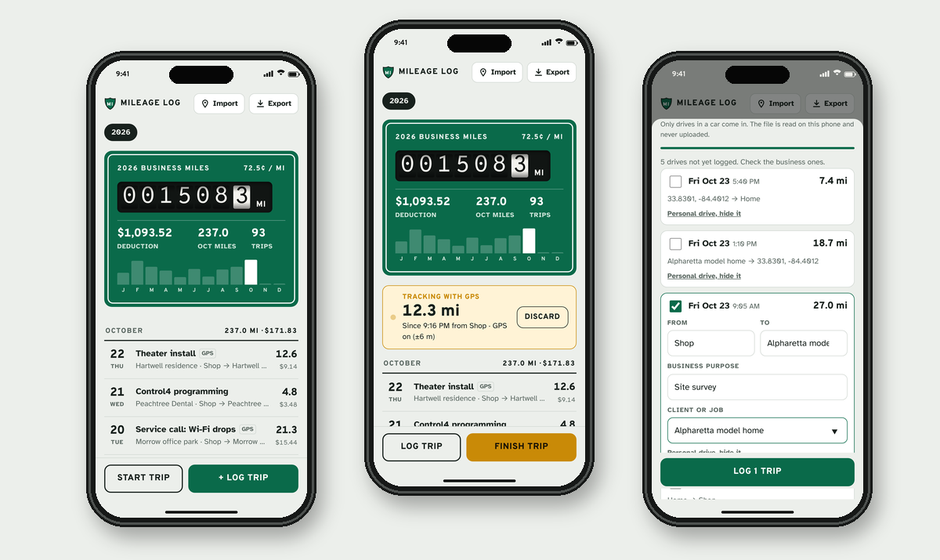
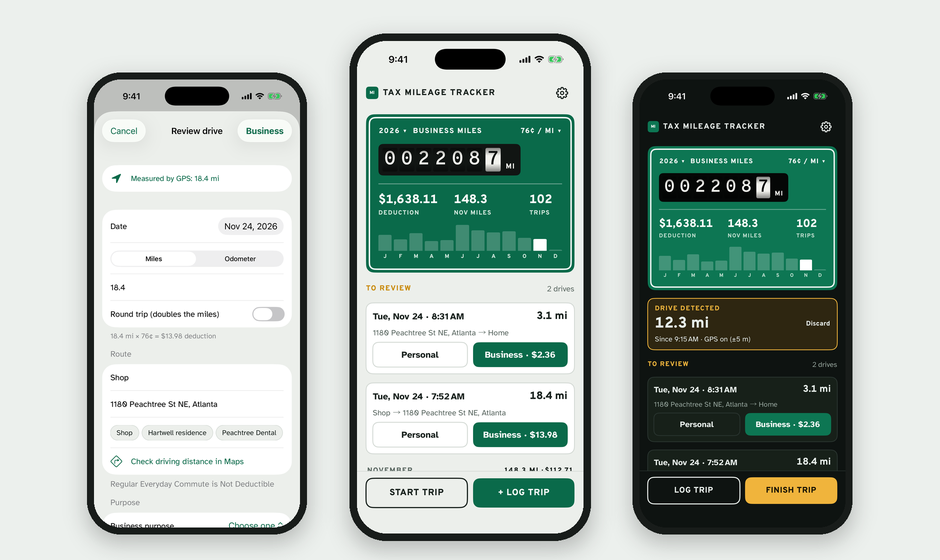
Projects page: current Tax Mileage Tracker screens
Claude-Session: https://claude.ai/code/session_01NV7369TV3DByZaPkANa13k

diff --git a/index.html b/index.html
@@ -54,7 +54,7 @@ try {
       <!-- Tax Mileage Tracker -->
       <li class="card">
         <figure class="card-visual">
-          <img src="assets/mileage-log.png" alt="Three iPhone screens of Tax Mileage Tracker: the year's business miles on a highway-sign odometer, a trip being tracked live with GPS, and drives imported from Google Maps Timeline." loading="lazy">
+          <img src="assets/mileage-log.png" alt="Three iPhone screens of Tax Mileage Tracker: reviewing a detected drive, the year's business miles on a highway-sign odometer with drives to review, and dark mode with a drive being tracked." loading="lazy">
           <figcaption class="visual-caption">Every business drive, logged by GPS, with the IRS deduction added up.</figcaption>
         </figure>
         <div class="card-head">
